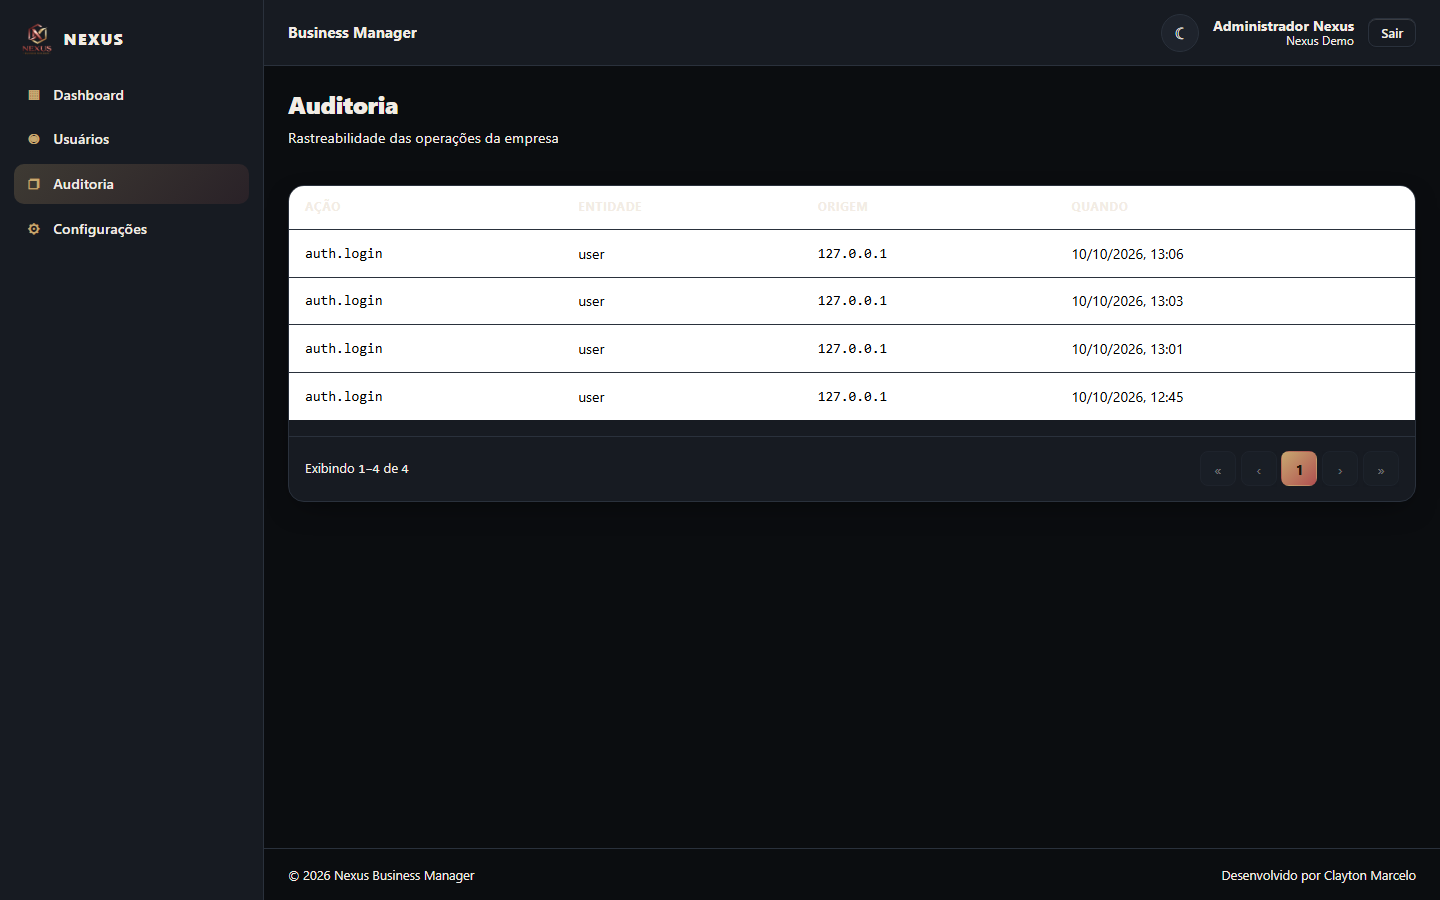
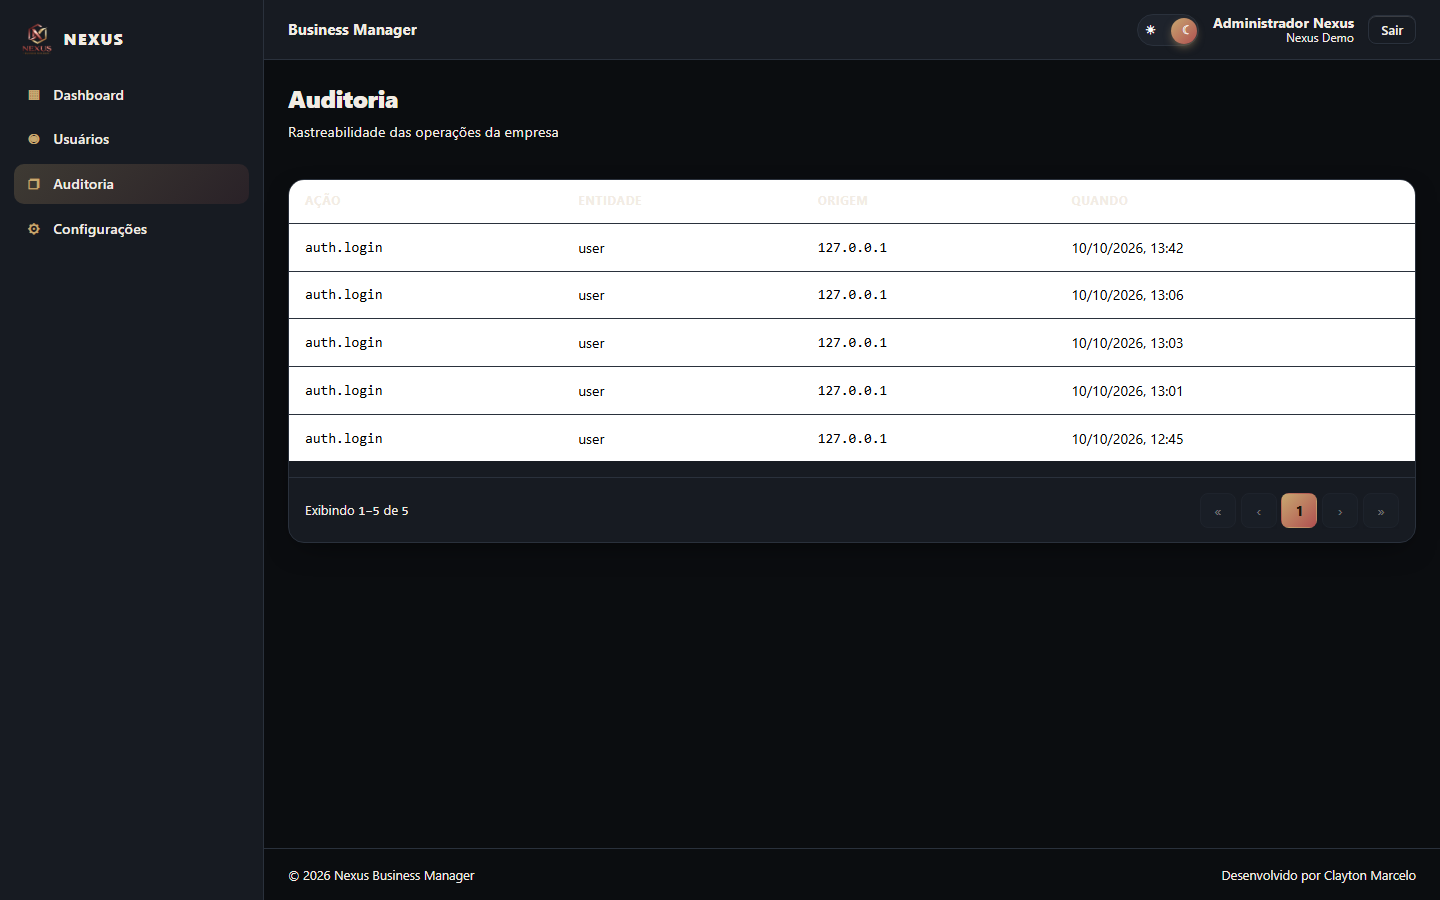
Deixamos a landing respirar: herói só com a marca e switch de tema novo
Tiramos os dois botões do meio da tela de boas-vindas — quem quer entrar
usa o Acessar do topo, e o herói fica inteiro para a logo e a mensagem.
Aproveitamos para aposentar o botãozinho redondo de tema: agora é um
switch em pílula com sol e lua e um thumb em degradê cobre que desliza
de um lado para o outro, acessível por teclado e tranquilo para quem
prefere menos movimento.

diff --git a/apps/web/src/styles/components.css b/apps/web/src/styles/components.css
@@ -70,22 +70,47 @@
   margin-bottom: 0.75rem;
 }
 
-/* Alternador de tema */
-.theme-toggle {
+/* Alternador de tema: switch moderno em pilula */
+.theme-switch {
+  position: relative;
   display: inline-flex;
   align-items: center;
-  justify-content: center;
-  width: 38px;
-  height: 38px;
-  background: var(--surface-2);
-  border: 1px solid var(--border);
+  justify-content: space-between;
+  width: 62px;
+  height: 32px;
+  padding: 0 8px;
   border-radius: 999px;
-  color: var(--text);
+  border: 1px solid var(--border);
+  background: var(--surface-2);
   cursor: pointer;
-  font-size: 1rem;
-  transition: border-color 120ms ease;
+  transition: background 160ms ease, border-color 160ms ease;
 }
-.theme-toggle:hover { border-color: var(--accent); }
+.theme-switch:hover { border-color: var(--accent); }
+.theme-switch-icon {
+  position: relative;
+  z-index: 1;
+  font-size: 0.78rem;
+  line-height: 1;
+  color: var(--text-3);
+  transition: color 160ms ease;
+}
+.theme-switch[data-mode="light"] .theme-switch-icon:first-child { color: #1a1208; }
+.theme-switch[data-mode="dark"] .theme-switch-icon:last-child { color: #1a1208; }
+.theme-switch-thumb {
+  position: absolute;
+  top: 3px;
+  left: 3px;
+  width: 26px;
+  height: 26px;
+  border-radius: 50%;
+  background: linear-gradient(135deg, var(--accent), var(--brand));
+  box-shadow: 0 4px 10px -2px color-mix(in srgb, var(--accent) 60%, transparent);
+  transition: transform 220ms cubic-bezier(0.4, 0, 0.2, 1);
+}
+.theme-switch[data-mode="dark"] .theme-switch-thumb { transform: translateX(30px); }
+@media (prefers-reduced-motion: reduce) {
+  .theme-switch-thumb { transition: none; }
+}
 
 .theme-choice { display: flex; gap: 0.6rem; flex-wrap: wrap; }
 
@@ -469,7 +494,6 @@
   line-height: 1.12;
 }
 .landing-subtitle { color: var(--text-2); font-size: 1.05rem; line-height: 1.65; max-width: 62ch; }
-.landing-cta { display: flex; gap: 0.8rem; justify-content: center; flex-wrap: wrap; margin-top: 0.4rem; }
 .landing-features {
   display: grid;
   grid-template-columns: repeat(auto-fit, minmax(240px, 1fr));

diff --git a/apps/web/src/components/ThemeToggle.tsx b/apps/web/src/components/ThemeToggle.tsx
@@ -1,18 +1,24 @@
 import { useTheme } from "../context/ThemeContext";
 
-// Controle global de tema acessível por teclado, com rótulo e estado claro (seção 15).
+// Controle global de tema: switch moderno (trilho em pílula + thumb deslizante),
+// acessível por teclado com role="switch" e rótulo em pt-BR.
 export function ThemeToggle() {
   const { theme, toggle } = useTheme();
   const isDark = theme === "dark";
   return (
     <button
       type="button"
+      role="switch"
+      aria-checked={isDark}
       onClick={toggle}
       aria-label={isDark ? "Ativar tema claro" : "Ativar tema escuro"}
       title={isDark ? "Tema claro" : "Tema escuro"}
-      className="theme-toggle"
+      className="theme-switch"
+      data-mode={theme}
     >
-      <span aria-hidden="true">{isDark ? "☾" : "☀"}</span>
+      <span className="theme-switch-icon" aria-hidden="true">☀</span>
+      <span className="theme-switch-icon" aria-hidden="true">☾</span>
+      <span className="theme-switch-thumb" aria-hidden="true" />
     </button>
   );
 }

diff --git a/apps/web/src/pages/Landing.tsx b/apps/web/src/pages/Landing.tsx
@@ -3,7 +3,8 @@ import { Logo } from "../components/Logo";
 import { ThemeToggle } from "../components/ThemeToggle";
 import { currentYear } from "../lib/format";
 
-// Página pública de boas-vindas (seção 17). Botão "Acessar" leva ao login real.
+// Página pública de boas-vindas (seção 17). O acesso ao sistema fica apenas no topo,
+// mantendo o herói limpo e focado na marca.
 export function Landing() {
   return (
     <div className="app-bg landing">
@@ -29,10 +30,6 @@ export function Landing() {
             O Nexus Business Manager reúne cadastro, usuários, controle de acesso por papel e
             auditoria em um ambiente seguro, responsivo e com identidade própria — do balcão à nuvem.
           </p>
-          <div className="landing-cta">
-            <Link to="/login" className="btn btn-brand btn-lg">Acessar o sistema</Link>
-            <a href="#recursos" className="btn btn-ghost btn-lg">Conhecer recursos</a>
-          </div>
         </div>
       </main>
 

diff --git a/CHANGELOG.md b/CHANGELOG.md
@@ -5,6 +5,10 @@ Formato baseado em [Keep a Changelog](https://keepachangelog.com/pt-BR/1.1.0/), 
 
 ## [Não lançado]
 
+### Alterado
+- Página pública: herói agora é 100% marca — botões "Acessar o sistema" e "Conhecer recursos" removidos; o acesso ao sistema permanece no botão "Acessar" do topo.
+- Alternador de tema redesenhado como switch moderno (trilho em pílula, ícones sol/lua e thumb em degradê cobre que desliza), com `role=switch`, `aria-checked` e respeito a `prefers-reduced-motion`.
+
 ### Adicionado
 - Fundação vertical completa do frontend: AdminShell (sidebar, header, footer), Landing pública com "Acessar", Login real com JWT, Dashboard com KPIs vindos da API, Usuários (busca, papel editável, modal de novo membro), Auditoria, Configurações (tema, conta, troca de empresa) e páginas de erro 401/403/404/500 com identidade da marca.
 - Design system Premium Gourmet em `apps/web/src/styles/` (tokens de tema, global, componentes) com alternância dark ("noite sofisticada") / light ("dia elegante") persistida e sem preto/branco puros.
